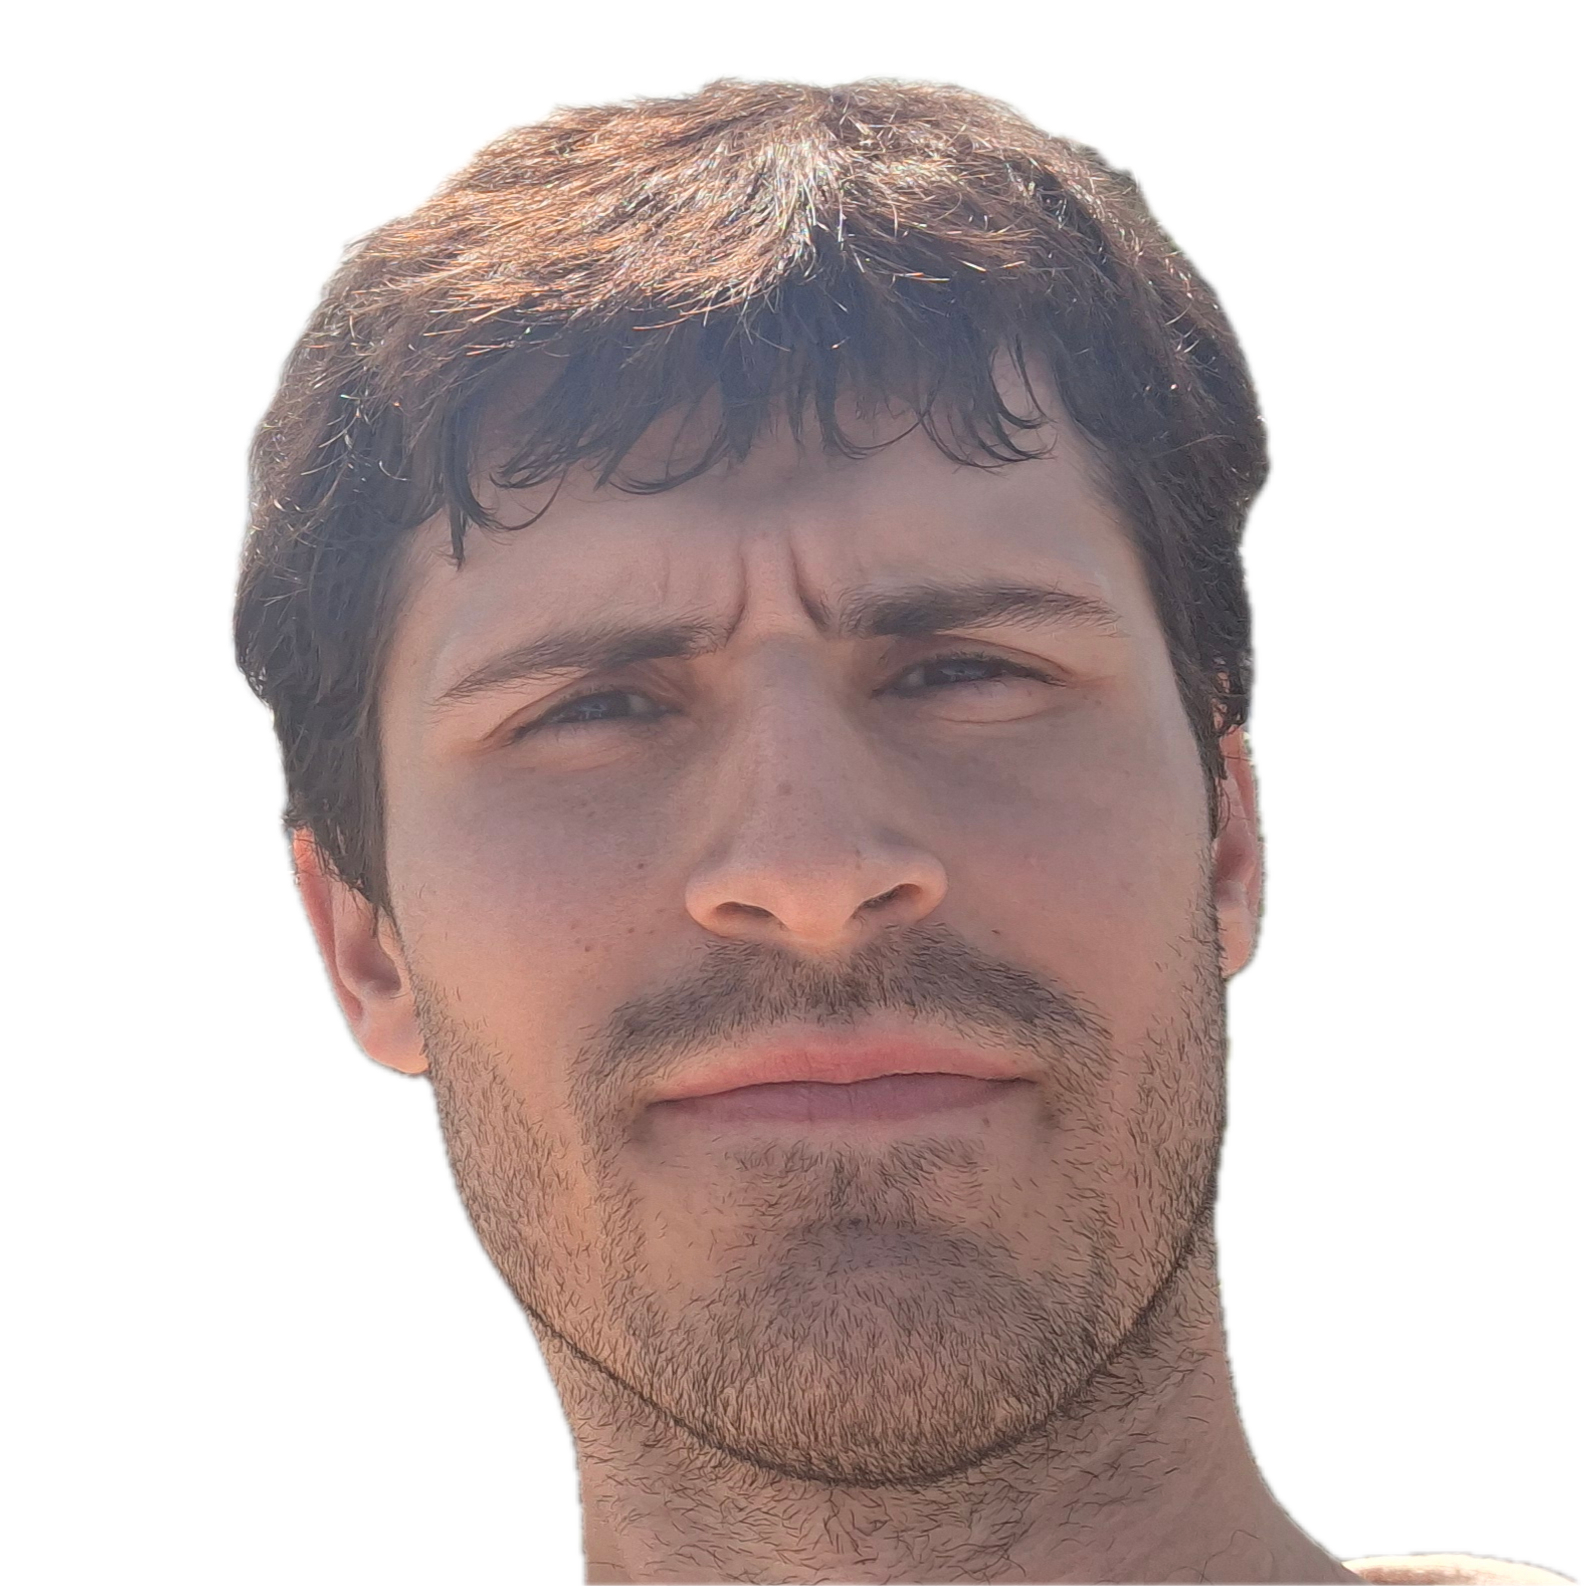
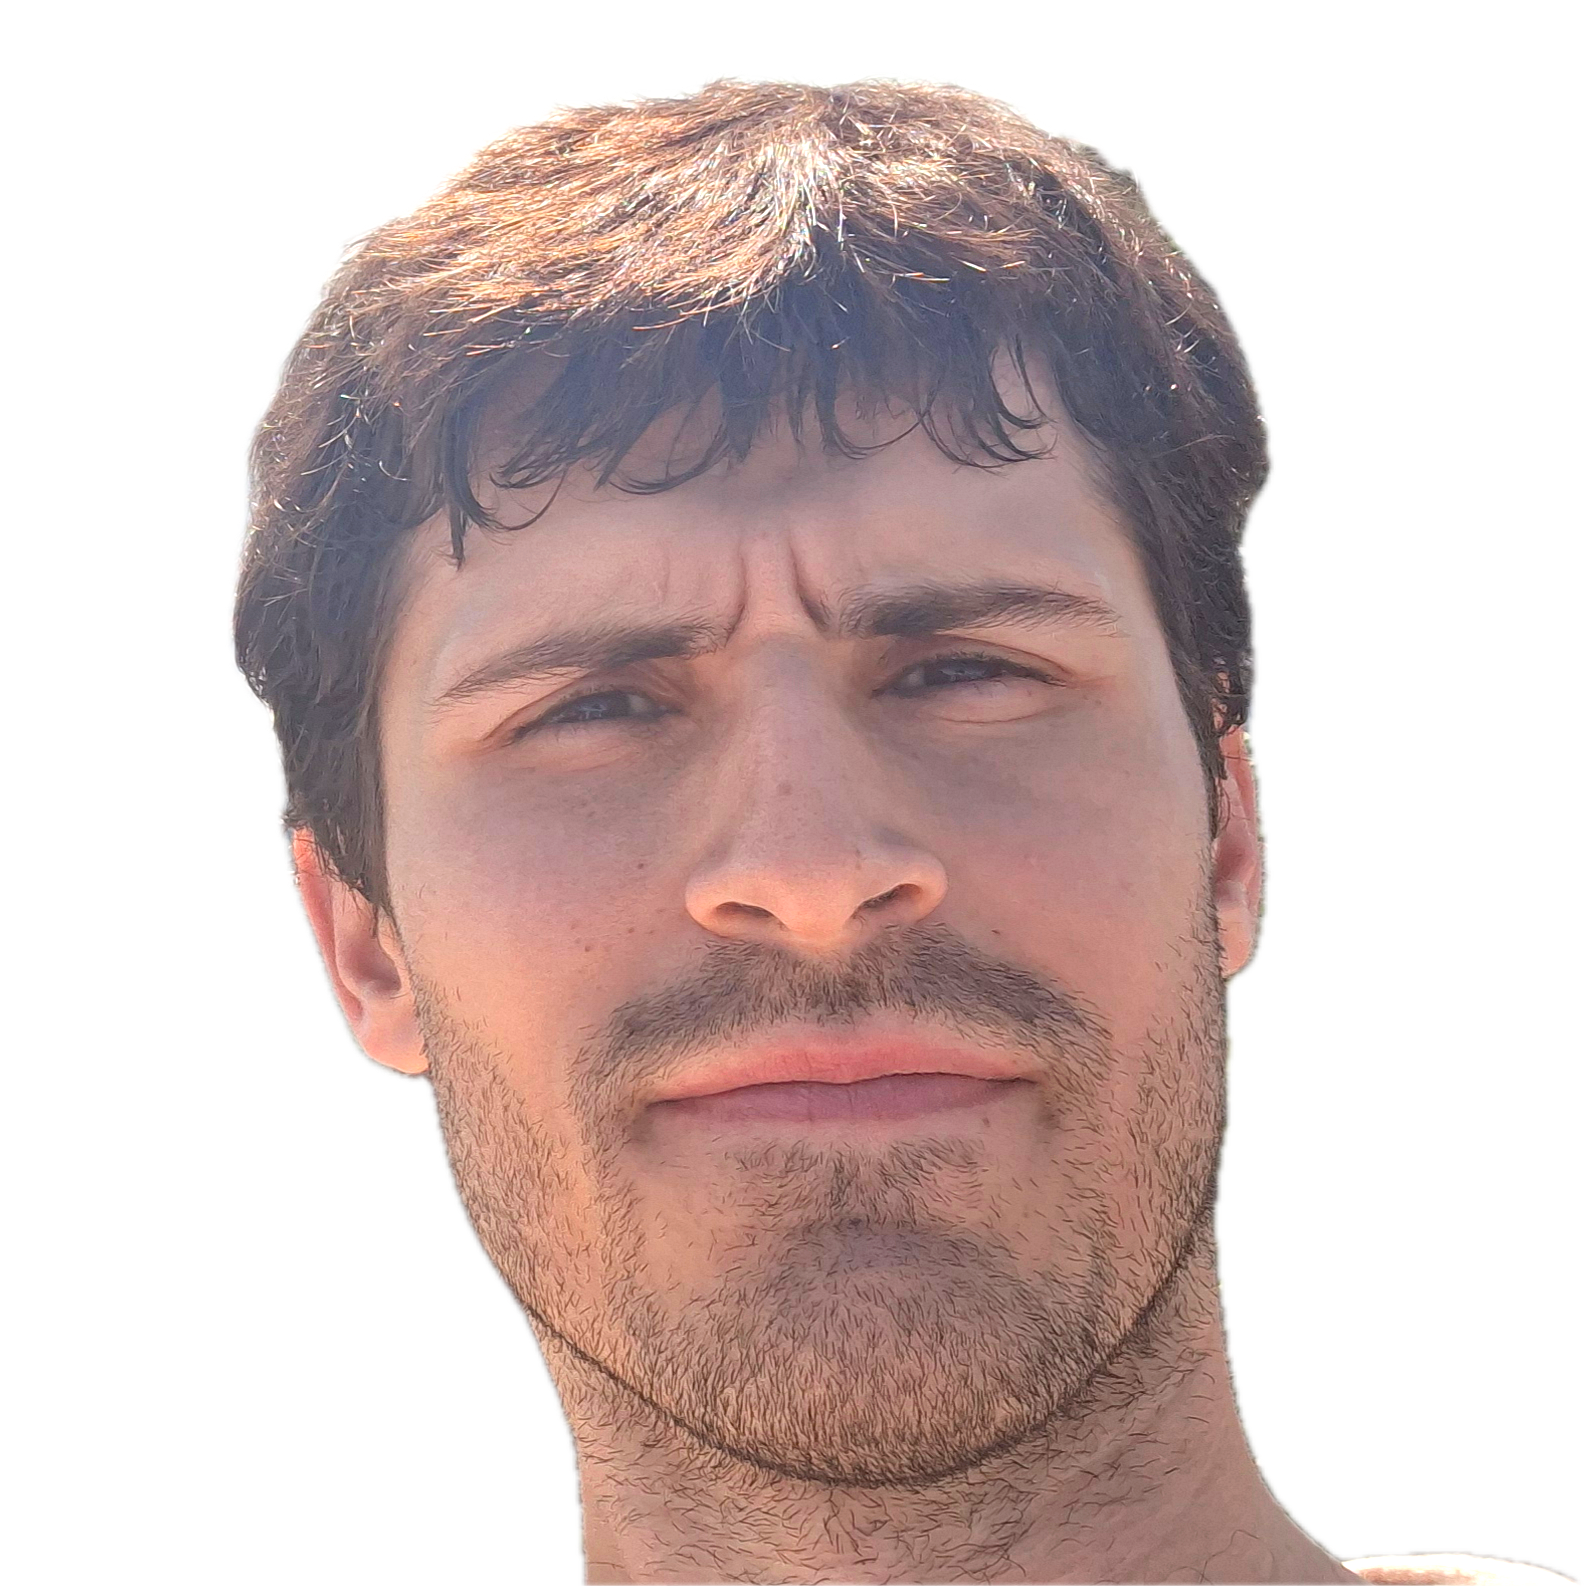
Small tweaks

diff --git a/docs/index.html b/docs/index.html
@@ -490,10 +490,10 @@
       display: block;
       width: 48px;
       height: 48px;
-      border: 1px solid #fffdf9;
+      border: 1px solid #fff;
       border-radius: 50%;
-      background: var(--soft);
-      box-shadow: 0 0 0 1px var(--rule);
+      background: #fff;
+      box-shadow: 0 1px 3px rgba(23, 20, 17, .12), 0 0 0 1px var(--rule);
       object-fit: cover
     }
 
@@ -665,7 +665,13 @@
               d="M8 0C3.58 0 0 3.58 0 8c0 3.54 2.29 6.53 5.47 7.59.4.07.55-.17.55-.38 0-.19-.01-.82-.01-1.49-2.01.37-2.53-.49-2.69-.94-.09-.23-.48-.94-.82-1.13-.28-.15-.68-.52-.01-.53.63-.01 1.08.58 1.23.82.72 1.21 1.87.87 2.33.66.07-.52.28-.87.51-1.07-1.78-.2-3.64-.89-3.64-3.95 0-.87.31-1.59.82-2.15-.08-.2-.36-1.02.08-2.12 0 0 .67-.21 2.2.82A7.5 7.5 0 0 1 8 3.86c.68 0 1.36.09 2 .27 1.53-1.04 2.2-.82 2.2-.82.44 1.1.16 1.92.08 2.12.51.56.82 1.27.82 2.15 0 3.07-1.87 3.75-3.65 3.95.29.25.54.73.54 1.48 0 1.07-.01 1.93-.01 2.2 0 .21.15.46.55.38A8.01 8.01 0 0 0 16 8c0-4.42-3.58-8-8-8Z">
             </path>
           </svg>GitHub</a>
-        <a class="button zoom" href="https://yale.zoom.us/j/95642888370" aria-label="Join the tutorial Zoom meeting"><svg aria-hidden="true" viewBox="0 0 24 24" width="16" height="16"><path d="M4.75 6.5A2.75 2.75 0 0 0 2 9.25v5.5a2.75 2.75 0 0 0 2.75 2.75h8.5A2.75 2.75 0 0 0 16 14.75v-.68l3.74 2.4A1.45 1.45 0 0 0 22 15.25v-6.5a1.45 1.45 0 0 0-2.26-1.22L16 9.93v-.68a2.75 2.75 0 0 0-2.75-2.75h-8.5Zm0 1.5h8.5c.69 0 1.25.56 1.25 1.25v5.5c0 .69-.56 1.25-1.25 1.25h-8.5c-.69 0-1.25-.56-1.25-1.25v-5.5C3.5 8.56 4.06 8 4.75 8Zm11.25 3.7 4.5-2.89v6.38L16 12.3v-.6Z"></path></svg>Join Zoom</a>
+        <a class="button zoom" href="https://yale.zoom.us/j/95642888370"
+          aria-label="Join the tutorial Zoom meeting"><svg aria-hidden="true" viewBox="0 0 24 24" width="16"
+            height="16">
+            <path
+              d="M4.75 6.5A2.75 2.75 0 0 0 2 9.25v5.5a2.75 2.75 0 0 0 2.75 2.75h8.5A2.75 2.75 0 0 0 16 14.75v-.68l3.74 2.4A1.45 1.45 0 0 0 22 15.25v-6.5a1.45 1.45 0 0 0-2.26-1.22L16 9.93v-.68a2.75 2.75 0 0 0-2.75-2.75h-8.5Zm0 1.5h8.5c.69 0 1.25.56 1.25 1.25v5.5c0 .69-.56 1.25-1.25 1.25h-8.5c-.69 0-1.25-.56-1.25-1.25v-5.5C3.5 8.56 4.06 8 4.75 8Zm11.25 3.7 4.5-2.89v6.38L16 12.3v-.6Z">
+            </path>
+          </svg>Join Zoom</a>
       </div>
       <section id="notes" class="reading-panel">
         <h1>Tutorial Notes</h1>
@@ -699,7 +705,9 @@
           <dt>Date</dt>
           <dd>June 15, 2026</dd>
           <dt>Time</dt>
-          <dd><a class="time-zone-link" href="https://www.timeanddate.com/worldclock/fixedtime.html?msg=EC%2726%20Tutorial%3A%20Learning%20and%20Computation%20of%20Phi-Equilibria&amp;iso=20260615T1100&amp;p1=179&amp;ah=2">11:00am&ndash;1:00pm ET</a></dd>
+          <dd><a class="time-zone-link"
+              href="https://www.timeanddate.com/worldclock/fixedtime.html?msg=EC%2726%20Tutorial%3A%20Learning%20and%20Computation%20of%20Phi-Equilibria&amp;iso=20260615T1100&amp;p1=179&amp;ah=2">11:00am&ndash;1:00pm
+              ET</a></dd>
           <dt>Event</dt>
           <dd>EC&rsquo;26 tutorial</dd>
         </dl>
@@ -707,7 +715,13 @@
         <p>No prior knowledge of \(\Phi\)-regret or \(\Phi\)-equilibria is assumed.</p>
         <div class="sessions-heading">
           <h1 class="sessions-title">Sessions</h1>
-          <a class="button compact zoom" href="https://yale.zoom.us/j/95642888370" aria-label="Join the tutorial Zoom meeting"><svg aria-hidden="true" viewBox="0 0 24 24" width="16" height="16"><path d="M4.75 6.5A2.75 2.75 0 0 0 2 9.25v5.5a2.75 2.75 0 0 0 2.75 2.75h8.5A2.75 2.75 0 0 0 16 14.75v-.68l3.74 2.4A1.45 1.45 0 0 0 22 15.25v-6.5a1.45 1.45 0 0 0-2.26-1.22L16 9.93v-.68a2.75 2.75 0 0 0-2.75-2.75h-8.5Zm0 1.5h8.5c.69 0 1.25.56 1.25 1.25v5.5c0 .69-.56 1.25-1.25 1.25h-8.5c-.69 0-1.25-.56-1.25-1.25v-5.5C3.5 8.56 4.06 8 4.75 8Zm11.25 3.7 4.5-2.89v6.38L16 12.3v-.6Z"></path></svg>Join Zoom</a>
+          <a class="button compact zoom" href="https://yale.zoom.us/j/95642888370"
+            aria-label="Join the tutorial Zoom meeting"><svg aria-hidden="true" viewBox="0 0 24 24" width="16"
+              height="16">
+              <path
+                d="M4.75 6.5A2.75 2.75 0 0 0 2 9.25v5.5a2.75 2.75 0 0 0 2.75 2.75h8.5A2.75 2.75 0 0 0 16 14.75v-.68l3.74 2.4A1.45 1.45 0 0 0 22 15.25v-6.5a1.45 1.45 0 0 0-2.26-1.22L16 9.93v-.68a2.75 2.75 0 0 0-2.75-2.75h-8.5Zm0 1.5h8.5c.69 0 1.25.56 1.25 1.25v5.5c0 .69-.56 1.25-1.25 1.25h-8.5c-.69 0-1.25-.56-1.25-1.25v-5.5C3.5 8.56 4.06 8 4.75 8Zm11.25 3.7 4.5-2.89v6.38L16 12.3v-.6Z">
+              </path>
+            </svg>Join Zoom</a>
         </div>
         <div class="schedule">
           <section class="session">